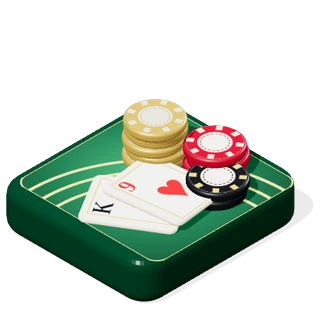
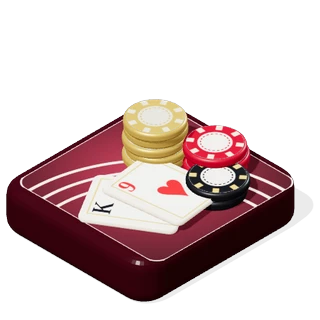
バカラ：ワインレッド卓×ジェードの差し色、アイコン配色変更、ソリティアの後ろに配置、正方形・縦長画面のレイアウト最適化
Claude-Session: https://claude.ai/code/session_01EiWRAXYbB7FpiyimYy4m7z

Changed region(s): [[0.0, 0.3438, 0.9375, 0.9375], [0.5625, 0.3438, 0.6562, 0.4375]]

diff --git a/baccarat/app.js b/baccarat/app.js
@@ -19,8 +19,9 @@ const pct = (x, d) => (x * 100).toFixed(d == null ? 2 : d) + '%';
 /* ---------------- storage ---------------- */
 function load() { try { return JSON.parse(localStorage.getItem(STORE) || '{}') || {}; } catch (e) { return {}; } }
 const D = load();
-D.set = Object.assign({ v: 'classic', prefs: {}, felt: 'green', back: 'ornateBlack', court: 'classic', cmode: 'simple', sound: true, anim: 1, speed: 'normal', coach: 1, squeeze: 0, autoNext: 0, chip: 100, lang: '' }, D.set || {});
+D.set = Object.assign({ v: 'classic', prefs: {}, felt: 'wine', back: 'ornateBlack', court: 'classic', cmode: 'simple', sound: true, anim: 1, speed: 'normal', coach: 1, squeeze: 0, autoNext: 0, chip: 100, lang: '' }, D.set || {});
 D.stats = D.stats || {};
+if (!D.set.th2) { if (D.set.felt === 'green') D.set.felt = 'wine'; D.set.th2 = 1; }   // the wine-red table became the default
 const set = D.set;
 ['felt', 'back', 'court', 'cmode'].forEach(k => { document.documentElement.dataset[k] = set[k]; });
 document.documentElement.dataset.face = 'classic';
@@ -390,7 +391,7 @@ function chipsAt(amt, x, yb, w) {   // chip stacks (side view) standing on y = y
 const resTxt = res => res > 0 ? '+' + fmt(res) : res === 0 ? t('res.push') : '−' + fmt(-res);
 function badge(x, y, txt, cls) { const w = 16 + String(txt).length * 11; return `<g class="lz-badge ${cls}"><rect x="${(x - w / 2).toFixed(1)}" y="${(y - 13).toFixed(1)}" width="${w}" height="24" rx="12"/><text x="${x}" y="${(y + 4.5).toFixed(1)}">${esc(txt)}</text></g>`; }
 function layHtml() {
-  const vb = VB(), done = T.phase === 'done', narrow = $('#bcTable').clientWidth < 560;
+  const vb = VB(), done = T.phase === 'done', narrow = !!G.deep;
   LW = narrow ? 1000 : 1180; SPAN = narrow ? 66 : 51; MEW = narrow ? 2 : 1.5; RING = narrow ? RING_N : RING_W; LCY = narrow ? -10 : -360; LH = narrow ? 540 : 420;
   const rings = [['P', ['P']], ['B', ['B']], ['T', ['T']], ['S1', ['PP', 'BP']]].concat(vb.includes('D7') ? [['S2', ['P8', 'D7']]] : []);
   const inner = RING[rings[rings.length - 1][0]][0];
@@ -428,14 +429,21 @@ function layHtml() {
 function render() {
   if (!T) return;
   const box = $('#bcTable'), W = box.clientWidth, H = box.clientHeight;
-  const narrow = W < 560;
-  // the layout print is as wide as the table; the cards take what is left above it
-  const lzh = (W - 24) * (narrow ? 540 / 1000 : 420 / 1180);
-  const cw = Math.max(34, Math.min(W / (narrow ? 8.1 : 8.6), (H - Math.min(lzh, H * .62)) / 3.25, 124));
-  const bw = $('#boardWrap'); bw.style.setProperty('--cw', cw + 'px'); bw.style.setProperty('--chh', cw * 1.4 + 'px');
-  // square / tall windows: no empty felt between the cards and the layout — the table is only as tall as it needs
-  { const rail = (bw.offsetHeight - H) / 2, need = Math.ceil(cw * (.38 + .54 + 1.4 + .2 + (narrow ? .95 : .62)) + lzh + 2 * rail + 10);
-    const mh = parseFloat(bw.style.maxHeight) || 0; if (Math.abs(mh - need) > 2 && (H + 2 * rail > need + 4 || mh)) bw.style.maxHeight = need + 'px'; }
+  const narrow = W < 560, bw = $('#boardWrap');
+  // PC (table + right column): the table keeps the window's height and the content is centred.
+  // Elsewhere (the info below the table): the table is only as tall as it needs (no empty felt).
+  const pcCol = matchMedia('(hover:hover) and (pointer:fine) and (min-width:1040px) and (min-aspect-ratio:3/4)').matches;
+  if (pcCol && bw.style.maxHeight) bw.style.maxHeight = '';
+  const rail = (bw.offsetHeight - H) / 2, Hn = pcCol ? H : Math.min(innerWidth * 1.35, 640) - 2 * rail;   // the height the table could have
+  G.deep = narrow || (pcCol && H > W * .7);
+  const lzh = (W - 24) * (G.deep ? 540 / 1000 : 420 / 1180), lz = Math.min(lzh, Hn * .6);
+  // the two hands side by side, or (tall tables) one above the other with bigger cards
+  const cwS = Math.min(W / (narrow ? 8.1 : 8.6), (Hn - lz) / 3.2), cwT = Math.min(W / (narrow ? 6.6 : 5.7), (Hn - lz) / 4.8);
+  const stack = cwT > cwS * 1.12, cw = Math.max(34, Math.min(stack ? cwT : cwS, 124));
+  bw.style.setProperty('--cw', cw + 'px'); bw.style.setProperty('--chh', cw * 1.4 + 'px');
+  box.classList.toggle('ctr', pcCol); box.classList.toggle('stk', stack); box.style.setProperty('--lzh', lz + 'px');
+  if (!pcCol) { const need = Math.ceil(cw * ((stack ? 3.4 + .4 : 2.12) + .38 + .62) + lz + 2 * rail + 8);
+    const mh = parseFloat(bw.style.maxHeight) || 0; if (Math.abs(mh - need) > 2) bw.style.maxHeight = need + 'px'; }
   const c = T.coup, done = T.phase === 'done', win = done ? c.win : null;
   const pt = visTotal('p'), bt = visTotal('b');
   const tag = (side, tot) => tot == null ? '' : `<span class="bc-tot${done && win === side.toUpperCase() ? ' win' : ''}${c && c.natural && done && (side === 'p' ? c.pt : c.bt) >= 8 ? ' nat' : ''}">${tot}</span>`;
@@ -451,7 +459,7 @@ function render() {
   const h = `<div class="bc-hands" data-k="hands">` +
     `<div class="bc-hand bh-p${win === 'P' ? ' win' : ''}" data-k="hp"><div class="bc-hh"><span>PLAYER</span>${tag('p', pt)}${pair('p')}</div>${handHtml('p')}</div>` +
     `<div class="bc-hand bh-b${win === 'B' ? ' win' : ''}" data-k="hb"><div class="bc-hh"><span>BANKER</span>${tag('b', bt)}${pair('b')}</div>${handHtml('b')}</div>` +
-    `</div>${banner}${lay}` +
+    `</div><div class="bc-mid" data-k="mid">${banner}</div>${lay}` +
     `<div class="bc-shoe" data-k="shoe" title="${esc(t('shoe.left', { n: shoeLeft }))}"><span class="bc-shoe-box"><i style="height:${(shoePct * 100).toFixed(1)}%"></i><em class="cut" style="bottom:${((T.shoe.cards.length - T.shoe.cut) / T.shoe.cards.length * 100).toFixed(1)}%"></em></span><small><i>SHOE</i>${shoeLeft}</small></div>`;
   patch(box, h);
   box.querySelectorAll('[data-spot]').forEach(el => { el.onclick = () => placeBet(el.dataset.spot); });

diff --git a/baccarat/app.css b/baccarat/app.css
@@ -1605,8 +1605,8 @@ img,svg{-webkit-user-drag:none;user-drag:none}
 @keyframes sqzWiggle{0%,80%,100%{transform:none}88%{transform:rotate(-2deg)}94%{transform:rotate(2deg)}}
 .cd.sqz.third .cov{animation:none}
 /* result banner (between the hands and the layout) */
-.bc-banner{position:absolute;left:50%;top:calc(var(--cw)*.18 + var(--cw)*.54 + var(--chh) + 10px);transform:translateX(-50%);display:flex;align-items:center;gap:12px;padding:7px 18px;border-radius:14px;background:rgba(8,8,9,.86);border:1px solid rgba(241,205,122,.55);box-shadow:0 8px 22px rgba(0,0,0,.45);white-space:nowrap;animation:bannerIn .35s ease;z-index:5}
-@keyframes bannerIn{from{opacity:0;transform:translate(-50%,-8px)}}
+.bc-banner{position:relative;display:flex;align-items:center;gap:12px;padding:7px 18px;border-radius:14px;background:rgba(8,8,9,.86);border:1px solid rgba(241,205,122,.55);box-shadow:0 8px 22px rgba(0,0,0,.45);white-space:nowrap;animation:bannerIn .35s ease;z-index:5}
+@keyframes bannerIn{from{opacity:0;transform:translateY(-8px)}}
 .bc-banner b{font:700 calc(min(var(--cw)*.3,19px))/1.2 'Zen Kaku Gothic New',sans-serif}
 .bc-banner.wP b{color:#9cc6ff}.bc-banner.wB b{color:#ff9aa8}.bc-banner.wT b{color:#8fe3b8}
 .bc-banner small{font-size:11px;padding:2px 8px;border-radius:99px;background:#2fae5e;color:#fff;font-weight:700}
@@ -1804,7 +1804,7 @@ img,svg{-webkit-user-drag:none;user-drag:none}
 }
 /* phones */
 @media (max-width:760px){
-  .bc .board-wrap{height:clamp(300px,90vw,450px);min-height:0;--rail:14px;border-radius:30px}
+  .bc .board-wrap{height:min(135vw,640px);min-height:0}
   .bc-spot{height:calc(var(--cw)*.95)}
   .bc-spot.main{height:calc(var(--cw)*1.6)}
   .bc-spot.main b{font-size:22px}
@@ -1836,7 +1836,7 @@ img,svg{-webkit-user-drag:none;user-drag:none}
 /* ===== the table print: seats along the curve (white lines like a casino layout, the template's felt colours) ===== */
 svg.rd-svg,svg.chsv,svg.ctop,svg.ask-s,svg.sy-hist,svg.lz-svg{stroke:none;fill:none}
 .bc .felt-print{display:none}
-.bc-lay{flex:1 1 auto;min-height:0;display:flex;align-items:flex-end;justify-content:center;margin-top:calc(var(--cw)*.62)}
+.bc-lay{flex:1 1 auto;min-height:0;display:flex;align-items:flex-end;justify-content:center}
 .lz-svg{width:100%;height:100%;display:block;overflow:visible}
 .lz-crest{font:600 17px 'JetBrains Mono',monospace;letter-spacing:4px;text-anchor:middle;fill:rgba(236,232,222,.55)}
 .lz-rim,.lz-div{fill:none;stroke:rgba(236,232,222,.78);stroke-width:2.6}
@@ -1886,3 +1886,25 @@ svg.rd-svg,svg.chsv,svg.ctop,svg.ask-s,svg.sy-hist,svg.lz-svg{stroke:none;fill:n
 
 .bc-table{justify-content:flex-start}
 .bc .board-wrap{transition:max-height .2s}
+/* バカラの差し色：ジェード（ソリティア＝ゴールド、ポーカー＝ルビーと区別）。ベースはテンプレのブラック×プラチナ、卓はワインレッド */
+:root{--hl:#3fbf9a;--hl2:#7fe3c6;--hl-a:rgba(63,191,154,.5)}
+body.pk.bc{background:radial-gradient(1100px 700px at 25% -10%,#26191d 0%,transparent 62%),radial-gradient(900px 600px at 110% 110%,rgba(63,191,154,.08),transparent 60%),var(--bg)}
+.bc .gcard.sel,.bc .gtile.sel{background:linear-gradient(180deg,rgba(63,191,154,.13),rgba(0,0,0,.15))}
+.bc .tgl input:checked + i{background:linear-gradient(180deg,#4fd0ab,#1f8a6c)}
+.bc .cd.sel .fr{box-shadow:0 0 0 2px var(--hl2),0 0 14px rgba(127,227,198,.7)}
+.bc .seat.act .plate{border-color:var(--hl)}
+.bc-table.ctr{justify-content:center;gap:calc(var(--cw)*.1)}
+.bc-table.ctr .bc-lay{flex:0 1 var(--lzh)}
+/* the result line between the cards and the layout (keeps its place: nothing jumps) */
+.bc-mid{flex:none;height:calc(var(--cw)*.62);display:flex;align-items:center;justify-content:center;position:relative;z-index:5}
+.bc-mid .bc-banner{max-width:100%}
+/* tall tables: the two hands one above the other (bigger cards) */
+.bc-table.stk .bc-hands{flex-direction:column;align-items:center;gap:calc(var(--cw)*.12)}
+.bc-table.stk .bc-hand{flex-direction:row;align-items:center;gap:calc(var(--cw)*.14);min-width:calc(var(--cw)*5.1)}
+.bc-table.stk .bc-hh{flex-direction:column;justify-content:center;width:calc(var(--cw)*1.3);height:auto;gap:6px}
+.bc-table.stk .bc-hh > span:first-child{font-size:calc(var(--cw)*.19);letter-spacing:.06em;padding:4px 9px}
+.bc-table.stk .bc-cards{min-width:calc(var(--cw)*3.5)}
+@media (max-width:760px){
+  .bc-table.stk{padding-top:calc(var(--cw)*.55)}
+  .bc-banner b{font-size:15px}.bc-banner span{font-size:13px}.bc-banner small{font-size:10px}
+}

diff --git a/atlas/icons3d.js b/atlas/icons3d.js
@@ -349,14 +349,14 @@
       g0.add(at(card(M({ map: faceTex('s', 'A', 0), roughness: .35 })), -.1, 1.75, -.35, 1.05, .35, -.18));
       return g0;
     },
-    baccarat() {   // a deep green baccarat felt with gold printed arcs: a natural 9 (9 + K) leaning on gold / red / black chip stacks
+    baccarat() {   // a wine-red baccarat felt with ivory printed arcs: a natural 9 (9 + K) leaning on gold / red / black chip stacks
       const g0 = new T.Group();
-      // felt print on top of the plinth: deep green baize, gold arcs (Tie / Banker / Player) and a fine gold border
+      // felt print on top of the plinth: wine-red baize, ivory arcs (Tie / Banker / Player) and a fine ivory border
       const feltTex = X.canvasTex('ic-bcf', 512, 512, (c, W) => {
         const r = 40; c.beginPath(); c.moveTo(r, 0); c.arcTo(W, 0, W, W, r); c.arcTo(W, W, 0, W, r); c.arcTo(0, W, 0, 0, r); c.arcTo(0, 0, W, 0, r); c.closePath();
-        const gr = c.createRadialGradient(W * .5, W * .4, 20, W * .5, W * .5, W * .75); gr.addColorStop(0, '#1f7a4e'); gr.addColorStop(1, '#0b3d26'); c.fillStyle = gr; c.fill();
-        c.strokeStyle = '#d9b55e'; c.lineWidth = 5; c.save(); c.translate(14, 14); c.scale((W - 28) / W, (W - 28) / W); c.stroke(); c.restore();
-        c.strokeStyle = '#e6c46e'; c.lineWidth = 10; [360, 410, 460].forEach(rr => { c.beginPath(); c.arc(0, W, rr, -.5 * Math.PI, 0); c.stroke(); });
+        const gr = c.createRadialGradient(W * .5, W * .4, 20, W * .5, W * .5, W * .75); gr.addColorStop(0, '#8a2a3c'); gr.addColorStop(1, '#3d0f1a'); c.fillStyle = gr; c.fill();
+        c.strokeStyle = '#efe3cf'; c.lineWidth = 5; c.save(); c.translate(14, 14); c.scale((W - 28) / W, (W - 28) / W); c.stroke(); c.restore();
+        c.strokeStyle = '#f3e8d6'; c.lineWidth = 10; [360, 410, 460].forEach(rr => { c.beginPath(); c.arc(0, W, rr, -.5 * Math.PI, 0); c.stroke(); });
       });
       const top = mesh(new T.PlaneGeometry(3.86, 3.86), M({ map: feltTex, transparent: true, roughness: .85 })); top.rotation.x = -Math.PI / 2; top.position.y = .006; top.receiveShadow = true; g0.add(top);
       const faceTex = (k, r, su) => X.canvasTex('ic-bc' + k, 256, 352, (c, W, H) => {
@@ -840,7 +840,7 @@
   };
 
   // post-process: pieces onto the thick base; scenes without a board get a square plinth
-  const PLINTH = { connect4: [0x1f5ed9, 5.2], mancala: [0xb37540, 4.6], sudoku: [0xf4efe6, 3.9], speedsudoku: [0xfff0e2, 3.9], samegame: [0xf2eadb, 3.9], jailbreak: [0x3a3f4a, 3.9], solitaire: [0x22704a, 3.9], poker: [0x1f1f24, 3.9], baccarat: [0x123d2a, 3.9] };
+  const PLINTH = { connect4: [0x1f5ed9, 5.2], mancala: [0xb37540, 4.6], sudoku: [0xf4efe6, 3.9], speedsudoku: [0xfff0e2, 3.9], samegame: [0xf2eadb, 3.9], jailbreak: [0x3a3f4a, 3.9], solitaire: [0x22704a, 3.9], poker: [0x1f1f24, 3.9], baccarat: [0x3d0f1a, 3.9] };
   const FIX = {};
   Object.keys(ICONS).forEach(id => {
     FIX[id] = () => {

diff --git a/index.html b/index.html
@@ -801,9 +801,9 @@ const GAMES = [
   { id:'speed-sudoku', href:'./speed-sudoku/', thumb:'images/speed-sudoku.webp', icon:'images/icons/speed-sudoku.svg', cat:'puzzle', kind:'PUZZLE', key:'ss', isNew:true, tags:['original','daily','puzzles','variants','netrank','mobile'], facts:{ puzzles:500, players:'1' } },
   { id:'samegame',   href:'./samegame/',      thumb:'images/samegame.webp?v=4', icon:'images/icons/samegame.svg?v=3', cat:'puzzle', kind:'PUZZLE', key:'sg', isNew:true, tags:['original','daily','puzzles','variants','netrank','mobile'], facts:{ puzzles:750, players:'1' } },
   { id:'jailbreak',  href:'./jailbreak/',     thumb:'images/jailbreak.webp', icon:'images/icons/jailbreak.svg', cat:'puzzle', kind:'PUZZLE', key:'jb', isNew:true, tags:['original','daily','puzzles','variants','netrank','mobile'], facts:{ puzzles:2050, players:'1' } },
-  { id:'baccarat',   href:'./baccarat/',      thumb:'images/baccarat.webp?v=2', icon:'images/icons/baccarat.svg', cat:'puzzle', kind:'CARD GAME', key:'bc', isNew:true, tags:['classic','card','lessons','variants','mobile'], facts:{ lessons:17, players:'1' } },
   { id:'poker',      href:'./poker/',         thumb:'images/poker.webp?v=6', icon:'images/icons/poker.svg', cat:'puzzle', kind:'CARD GAME', key:'pk', isNew:true, tags:['classic','card','ai','lessons','variants','mobile'], facts:{ ai:4, lessons:18, players:'1' } },
   { id:'solitaire',  href:'./solitaire/',     thumb:'images/solitaire.webp', icon:'images/icons/solitaire.svg', cat:'puzzle', kind:'CARD GAME', key:'sol', isNew:true, tags:['classic','card','daily','variants','mobile'], facts:{ modes:6, players:'1' } },
+  { id:'baccarat',   href:'./baccarat/',      thumb:'images/baccarat.webp?v=3', icon:'images/icons/baccarat.svg?v=2', cat:'puzzle', kind:'CARD GAME', key:'bc', isNew:true, tags:['classic','card','lessons','variants','mobile'], facts:{ lessons:17, players:'1' } },
   { id:'reversi',    href:'./reversi/',       thumb:'images/reversi_v4.webp',  icon:'images/icons/reversi.svg',     cat:'line',      kind:'BOARD GAME', key:'rv4',  name:'Reversi V4', tags:['classic','ai','online','rated','daily','lessons','puzzles','openings','mobile'], facts:{ ai:20, lessons:9, puzzles:1000, players:'1–2' } },
   { id:'go',         href:'./go/',            thumb:'images/go.webp',          icon:'images/icons/go.svg',          cat:'line',      kind:'BOARD GAME', key:'igo',  isNew:true,  tags:['classic','ai','online','rated','daily','lessons','puzzles','openings','variants','mobile'], facts:{ ai:27, lessons:21, puzzles:500, players:'1–2' } },
   { id:'gomoku',     href:'./gomoku/',        thumb:'images/gomoku.webp',      icon:'images/icons/gomoku.svg',      cat:'line',      kind:'BOARD GAME', key:'gm',   isNew:true,  tags:['classic','ai','online','rated','daily','lessons','puzzles','openings','variants','mobile'], facts:{ ai:20, lessons:12, puzzles:500, players:'1–2' } },

diff --git a/shared/atlas.js b/shared/atlas.js
@@ -36,12 +36,12 @@
       name: N('さめが〜め POP!', 'SameGame POP!', 'SameGame POP!', 'SameGame POP!', 'SameGame POP!', 'SameGame POP!', 'SameGame POP!', 'SameGame POP!', 'SameGame POP!', 'SameGame POP!') },
     { id: 'jailbreak', cat: 'puzzle', store: ['jailbreak-slide-v1'], href: 'jailbreak/', color: '#f26b1d', released: '2026-10-25', tags: ['daily', 'puzzles', 'variants', 'netrank', 'mobile'], total: { pz: 1000 },
       name: N('だつごくスライダー！', 'Jailbreak Slider!', '越狱滑块！', '탈옥 슬라이더!', '¡Fuga Slider!', 'Évasion Slider !', 'Fuga Slider!', 'Ausbruch-Slider!', 'जेलब्रेक स्लाइडर!', 'الهروب سلايدر!') },
-    { id: 'baccarat', cat: 'puzzle', store: ['aicoding-baccarat'], href: 'baccarat/', color: '#c9a44c', released: '2026-11-01', tags: ['classic', 'card', 'lessons', 'variants', 'mobile'], total: { ls: 17 },
-      name: N('バカラ', 'Baccarat', '百家乐', '바카라', 'Baccarat', 'Baccara', 'Bacará', 'Baccara', 'बैकारेट', 'باكارا') },
     { id: 'poker', cat: 'puzzle', store: ['aicoding-poker'], href: 'poker/', color: '#b9b4aa', released: '2026-10-29', tags: ['classic', 'card', 'ai', 'lessons', 'variants', 'mobile'], total: { ls: 18 },
       name: N('ポーカー', 'Poker', '扑克', '포커', 'Póker', 'Poker', 'Pôquer', 'Poker', 'पोकर', 'بوكر') },
     { id: 'solitaire', cat: 'puzzle', store: ['aicoding-solitaire'], href: 'solitaire/', color: '#2f6b4f', released: '2026-10-28', tags: ['classic', 'card', 'daily', 'variants', 'mobile'], total: {},
       name: N('ソリティア', 'Solitaire', '纸牌接龙', '솔리테어', 'Solitario', 'Solitaire', 'Paciência', 'Solitär', 'सॉलिटेयर', 'سوليتير') },
+    { id: 'baccarat', cat: 'puzzle', store: ['aicoding-baccarat'], href: 'baccarat/', color: '#c9a44c', released: '2026-11-01', tags: ['classic', 'card', 'lessons', 'variants', 'mobile'], total: { ls: 17 },
+      name: N('バカラ', 'Baccarat', '百家乐', '바카라', 'Baccarat', 'Baccara', 'Bacará', 'Baccara', 'बैकारेट', 'باكارا') },
     { id: 'checkers', cat: 'chess', store: ['aicoding-checkers', 'checkers-online-name'], href: 'checkers/', color: '#8e2a3c', released: '2026-10-21', tags: ['classic', 'ai', 'online', 'rated', 'daily', 'lessons', 'puzzles', 'openings', 'mobile'], total: { pz: 500, ls: 13 },
       name: N('チェッカー V2', 'Checkers V2', '跳棋（国际跳棋·英式） V2', '체커 V2', 'Damas V2', 'Dames anglaises V2', 'Damas V2', 'Dame V2', 'चेकर्स V2', 'الداما V2') },
     { id: 'fanorona', cat: 'chess', store: ['aicoding-fanorona'], href: 'fanorona/', color: '#b5743a', released: '2026-11-01', tags: ['classic', 'ai', 'online', 'rated', 'daily', 'lessons', 'puzzles', 'openings', 'variants', 'mobile'], total: { pz: 200, ls: 12 },

diff --git a/baccarat/index.html b/baccarat/index.html
@@ -2,7 +2,7 @@
 <html lang="ja">
 <head>
 <meta charset="utf-8">
-<script>try { const S = (JSON.parse(localStorage.getItem('aicoding-baccarat') || '{}') || {}).set || {}; const d = document.documentElement.dataset; d.felt = S.felt || 'green'; d.back = S.back || 'ornateBlack'; d.court = S.court || 'classic'; d.cmode = S.cmode || 'simple'; d.face = 'classic'; } catch (e) {}</script>
+<script>try { const S = (JSON.parse(localStorage.getItem('aicoding-baccarat') || '{}') || {}).set || {}; const d = document.documentElement.dataset; d.felt = S.felt || 'wine'; d.back = S.back || 'ornateBlack'; d.court = S.court || 'classic'; d.cmode = S.cmode || 'simple'; d.face = 'classic'; } catch (e) {}</script>
 <meta name="viewport" content="width=device-width, initial-scale=1, viewport-fit=cover">
 <title>バカラ | 世界のボドゲ大全</title>
 <meta name="description" content="初心者がやさしく学べるバカラ。プント・バンコ、コミッションなし（スーパー6）、EZバカラ。8デッキのシューで遊び、罫線（大路・珠盤路・大眼仔・小路・曱甴路）、残りカードからの正確な期待値、3枚目ルールの解説、コーチ、必勝法の検証、ルールとレッスンつき。">
@@ -11,7 +11,7 @@
 <link rel="preconnect" href="https://fonts.googleapis.com">
 <link rel="preconnect" href="https://fonts.gstatic.com" crossorigin>
 <link href="https://fonts.googleapis.com/css2?family=Cormorant+Garamond:ital,wght@0,600;0,700;1,600&family=Shippori+Mincho+B1:wght@600;800&family=Zen+Kaku+Gothic+New:wght@400;500;700&family=JetBrains+Mono:wght@500;700&family=Bodoni+Moda:opsz,wght@6..96,500;6..96,600;6..96,700&family=Noto+Sans+Devanagari:wght@400;500;700&family=Noto+Sans+Arabic:wght@400;500;700&display=swap" rel="stylesheet">
-<link rel="stylesheet" href="app.css?v=2">
+<link rel="stylesheet" href="app.css?v=4">
 </head>
 <body class="pk bc">
 <svg width="0" height="0" style="position:absolute" aria-hidden="true">
@@ -125,12 +125,12 @@
 <script src="../shared/ruletour.js?v=28"></script>
 <script src="../shared/resign.js?v=1"></script>
 <script src="../shared/record.js?v=8"></script>
-<script src="app.js?v=2"></script>
+<script src="app.js?v=4"></script>
 <script src="tools.js?v=2"></script>
 <script src="lessons.js?v=2"></script>
 <script src="rules.js?v=2"></script>
 <script src="tutorial.js?v=1"></script>
-<script src="../shared/atlas.js?v=20261101bc" defer></script>
+<script src="../shared/atlas.js?v=20261101bd" defer></script>
 <script src="../shared/atlas-firebase-config.js?v=ac1" defer></script>
 <script src="../shared/atlas-account.js?v=20261101fa1" defer></script>
 </body>

diff --git a/atlas/index.html b/atlas/index.html
@@ -999,7 +999,7 @@ h2.h::before{content:'';width:10px;height:22px;border-radius:5px;background:var(
 
 <script src="https://cdnjs.cloudflare.com/ajax/libs/three.js/r128/three.min.js"></script>
 <script src="art.js?v=6"></script>
-<script src="../shared/atlas.js?v=20261101bc"></script>
+<script src="../shared/atlas.js?v=20261101bd"></script>
 <script src="../shared/atlas-firebase-config.js?v=ac1"></script>
 <script src="../shared/atlas-account.js?v=20261101fa1"></script>
 <script src="i18n.js?v=36"></script>
@@ -1015,7 +1015,7 @@ h2.h::before{content:'';width:10px;height:22px;border-radius:5px;background:var(
 <script src="models/connect4.js?v=3"></script>
 <script src="models/mancala.js?v=2"></script>
 <script src="models/dots.js?v=3"></script>
-<script src="icons3d.js?v=13"></script>
+<script src="icons3d.js?v=14"></script>
 <script src="games/reversi.js?v=11"></script>
 <script src="games/shogi-play.js?v=3"></script>
 <script src="games/shogi.js?v=5"></script>

diff --git a/go/index.html b/go/index.html
@@ -980,7 +980,7 @@ html.rb-study #frame{outline:3px solid var(--accent);outline-offset:3px}
     .catch(() => { document.documentElement.classList.remove('atlas-skin'); if (window.AtlasLoading) AtlasLoading.hide(); });
 })();
 </script>
-<script src="../shared/atlas.js?v=20261101bc" defer></script>
+<script src="../shared/atlas.js?v=20261101bd" defer></script>
 <script src="../shared/atlas-firebase-config.js?v=4" defer></script>
 <script src="../shared/atlas-account.js?v=5" defer></script>
 <script src="../shared/infotabs.js?v=15" defer></script>

diff --git a/tafl/index.html b/tafl/index.html
@@ -1271,7 +1271,7 @@ body.in-lesson #coachCard,body.in-puzzle #coachCard,body.in-online #coachCard,bo
 })();
 </script>
 <!-- World Board Game Atlas: shared account sync -->
-<script src="../shared/atlas.js?v=20261101bc" defer></script>
+<script src="../shared/atlas.js?v=20261101bd" defer></script>
 <script src="../shared/atlas-firebase-config.js?v=ac1" defer></script>
 <script src="../shared/atlas-account.js?v=20261101fa1" defer></script>
 <script src="../shared/infotabs.js?v=15" data-strips defer></script>

diff --git a/xiangqi/index.html b/xiangqi/index.html
@@ -1257,7 +1257,7 @@ html[data-pcs=lacquer]{--pf1:#5b4a40;--pf2:#2d241f;--pf3:#140f0c;--pfe:#c9a961;-
 })();
 </script>
 <!-- World Board Game Atlas: shared account sync -->
-<script src="../shared/atlas.js?v=20261101bc" defer></script>
+<script src="../shared/atlas.js?v=20261101bd" defer></script>
 <script src="../shared/atlas-firebase-config.js?v=ac1" defer></script>
 <script src="../shared/atlas-account.js?v=20261101fa1" defer></script>
 <script src="../shared/infotabs.js?v=15" data-strips defer></script>

diff --git a/dots/index.html b/dots/index.html
@@ -2289,7 +2289,7 @@ document.querySelector('#rsResume').onclick = () => { document.querySelector('#r
 })();
 </script>
 <!-- World Board Game Atlas: shared account sync -->
-<script src="../shared/atlas.js?v=20261101bc" defer></script>
+<script src="../shared/atlas.js?v=20261101bd" defer></script>
 <script src="../shared/atlas-firebase-config.js?v=ac1" defer></script>
 <script src="../shared/atlas-account.js?v=20261101fa1" defer></script>
 <script src="../shared/infotabs.js?v=15" defer></script>

diff --git a/gomoku/index.html b/gomoku/index.html
@@ -1442,7 +1442,7 @@ body.skin-ink .st.b{background:radial-gradient(circle at 34% 28%,#8a8f98 0%,#3c4
 })();
 </script>
 <!-- World Board Game Atlas: shared account sync -->
-<script src="../shared/atlas.js?v=20261101bc" defer></script>
+<script src="../shared/atlas.js?v=20261101bd" defer></script>
 <script src="../shared/atlas-firebase-config.js?v=ac1" defer></script>
 <script src="../shared/atlas-account.js?v=20261101fa1" defer></script>
 <script src="../shared/infotabs.js?v=15" defer></script>
